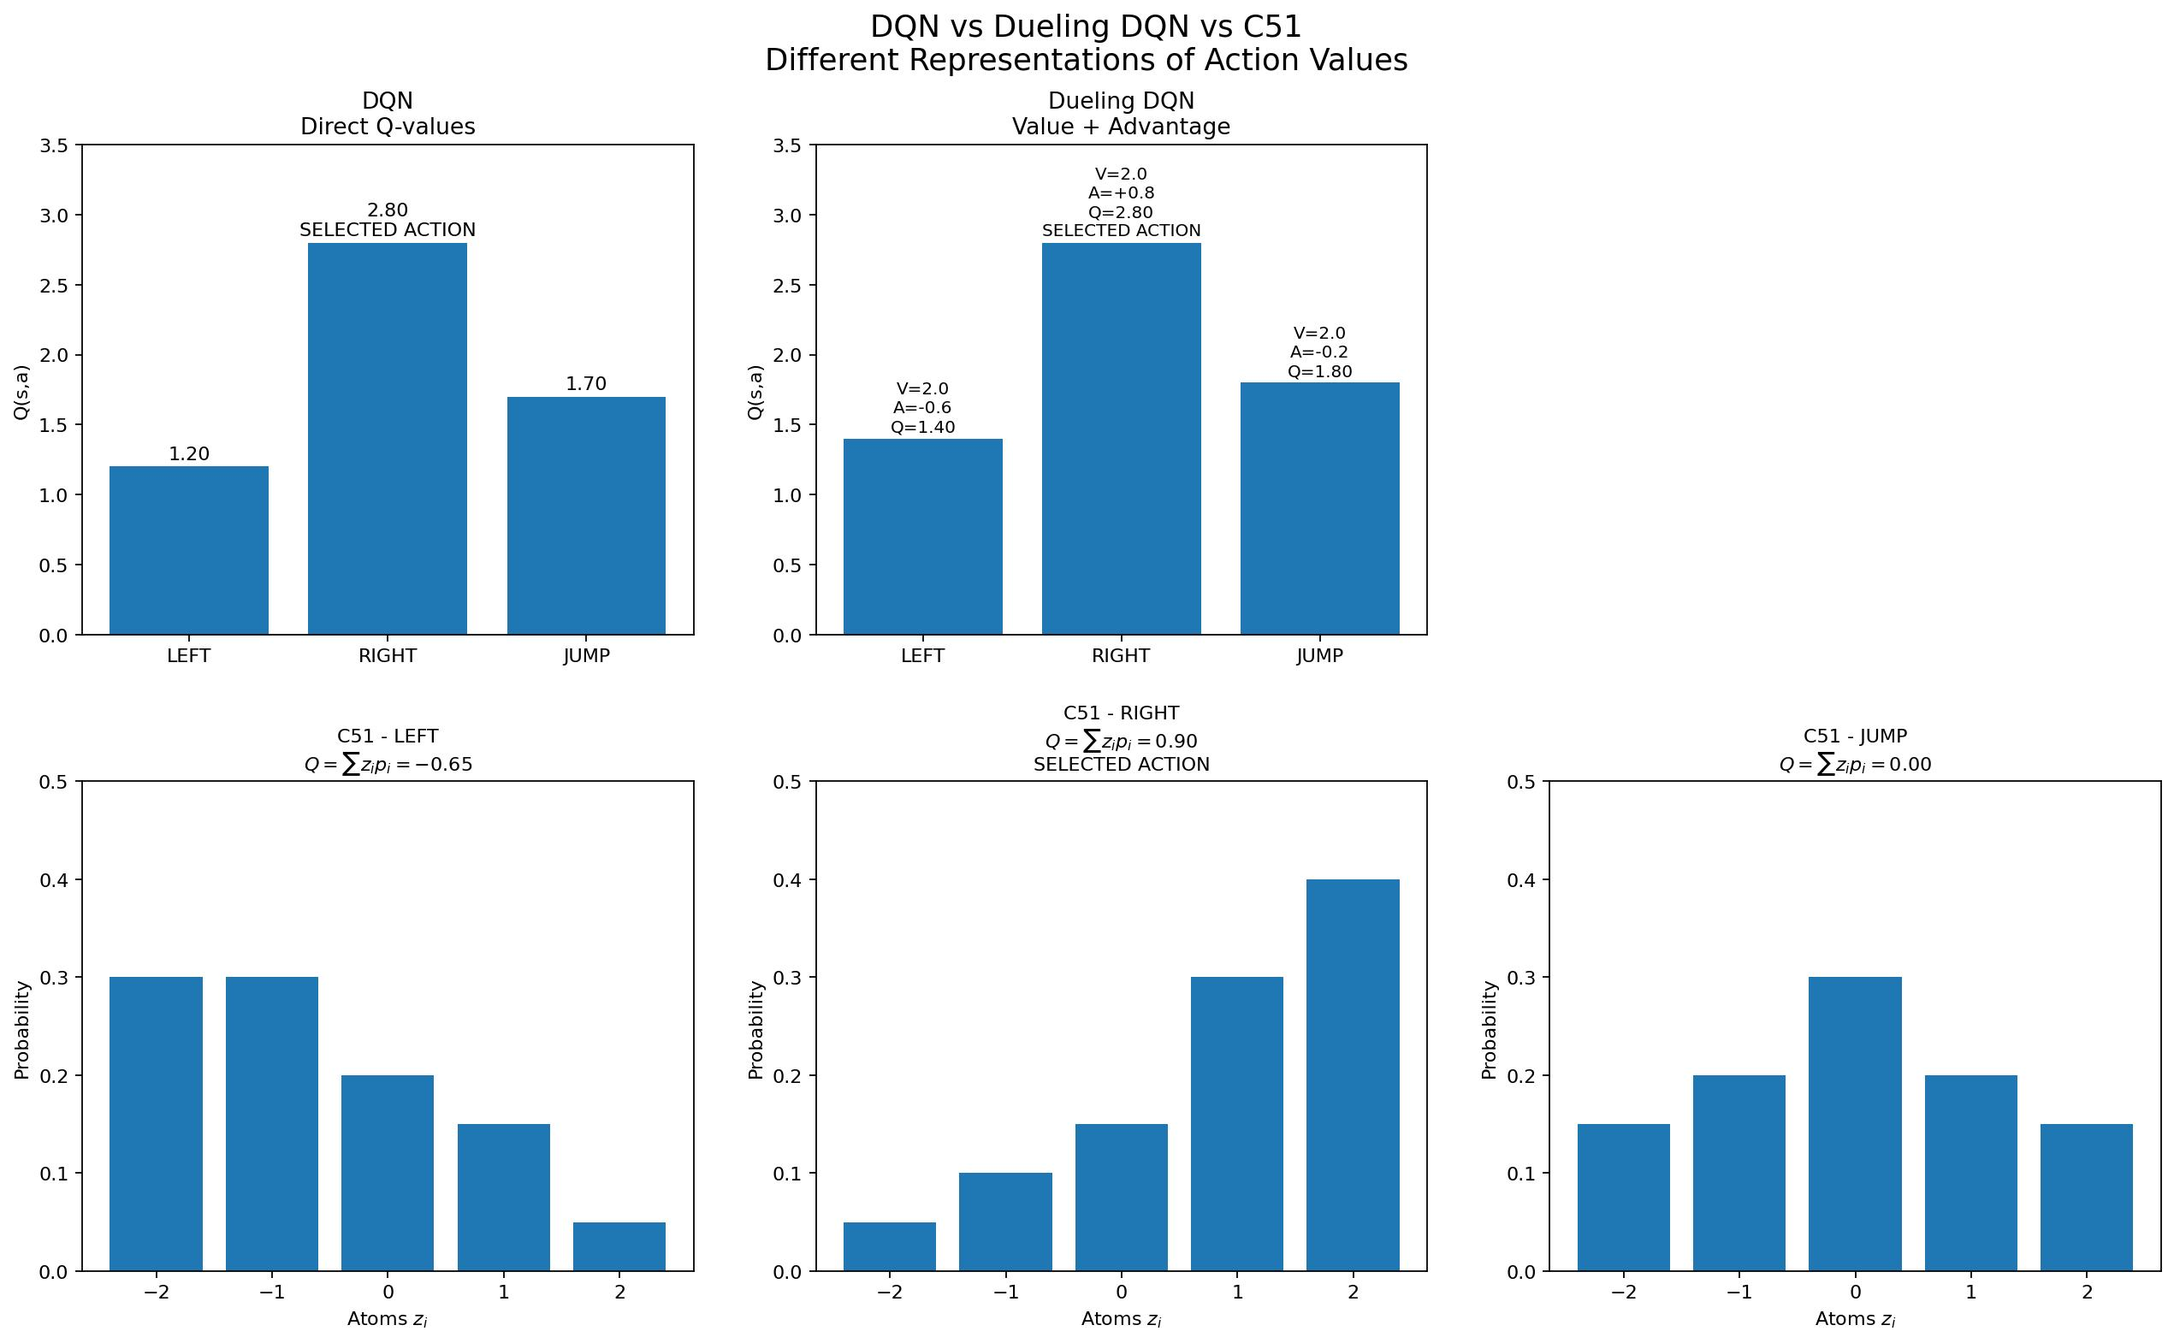
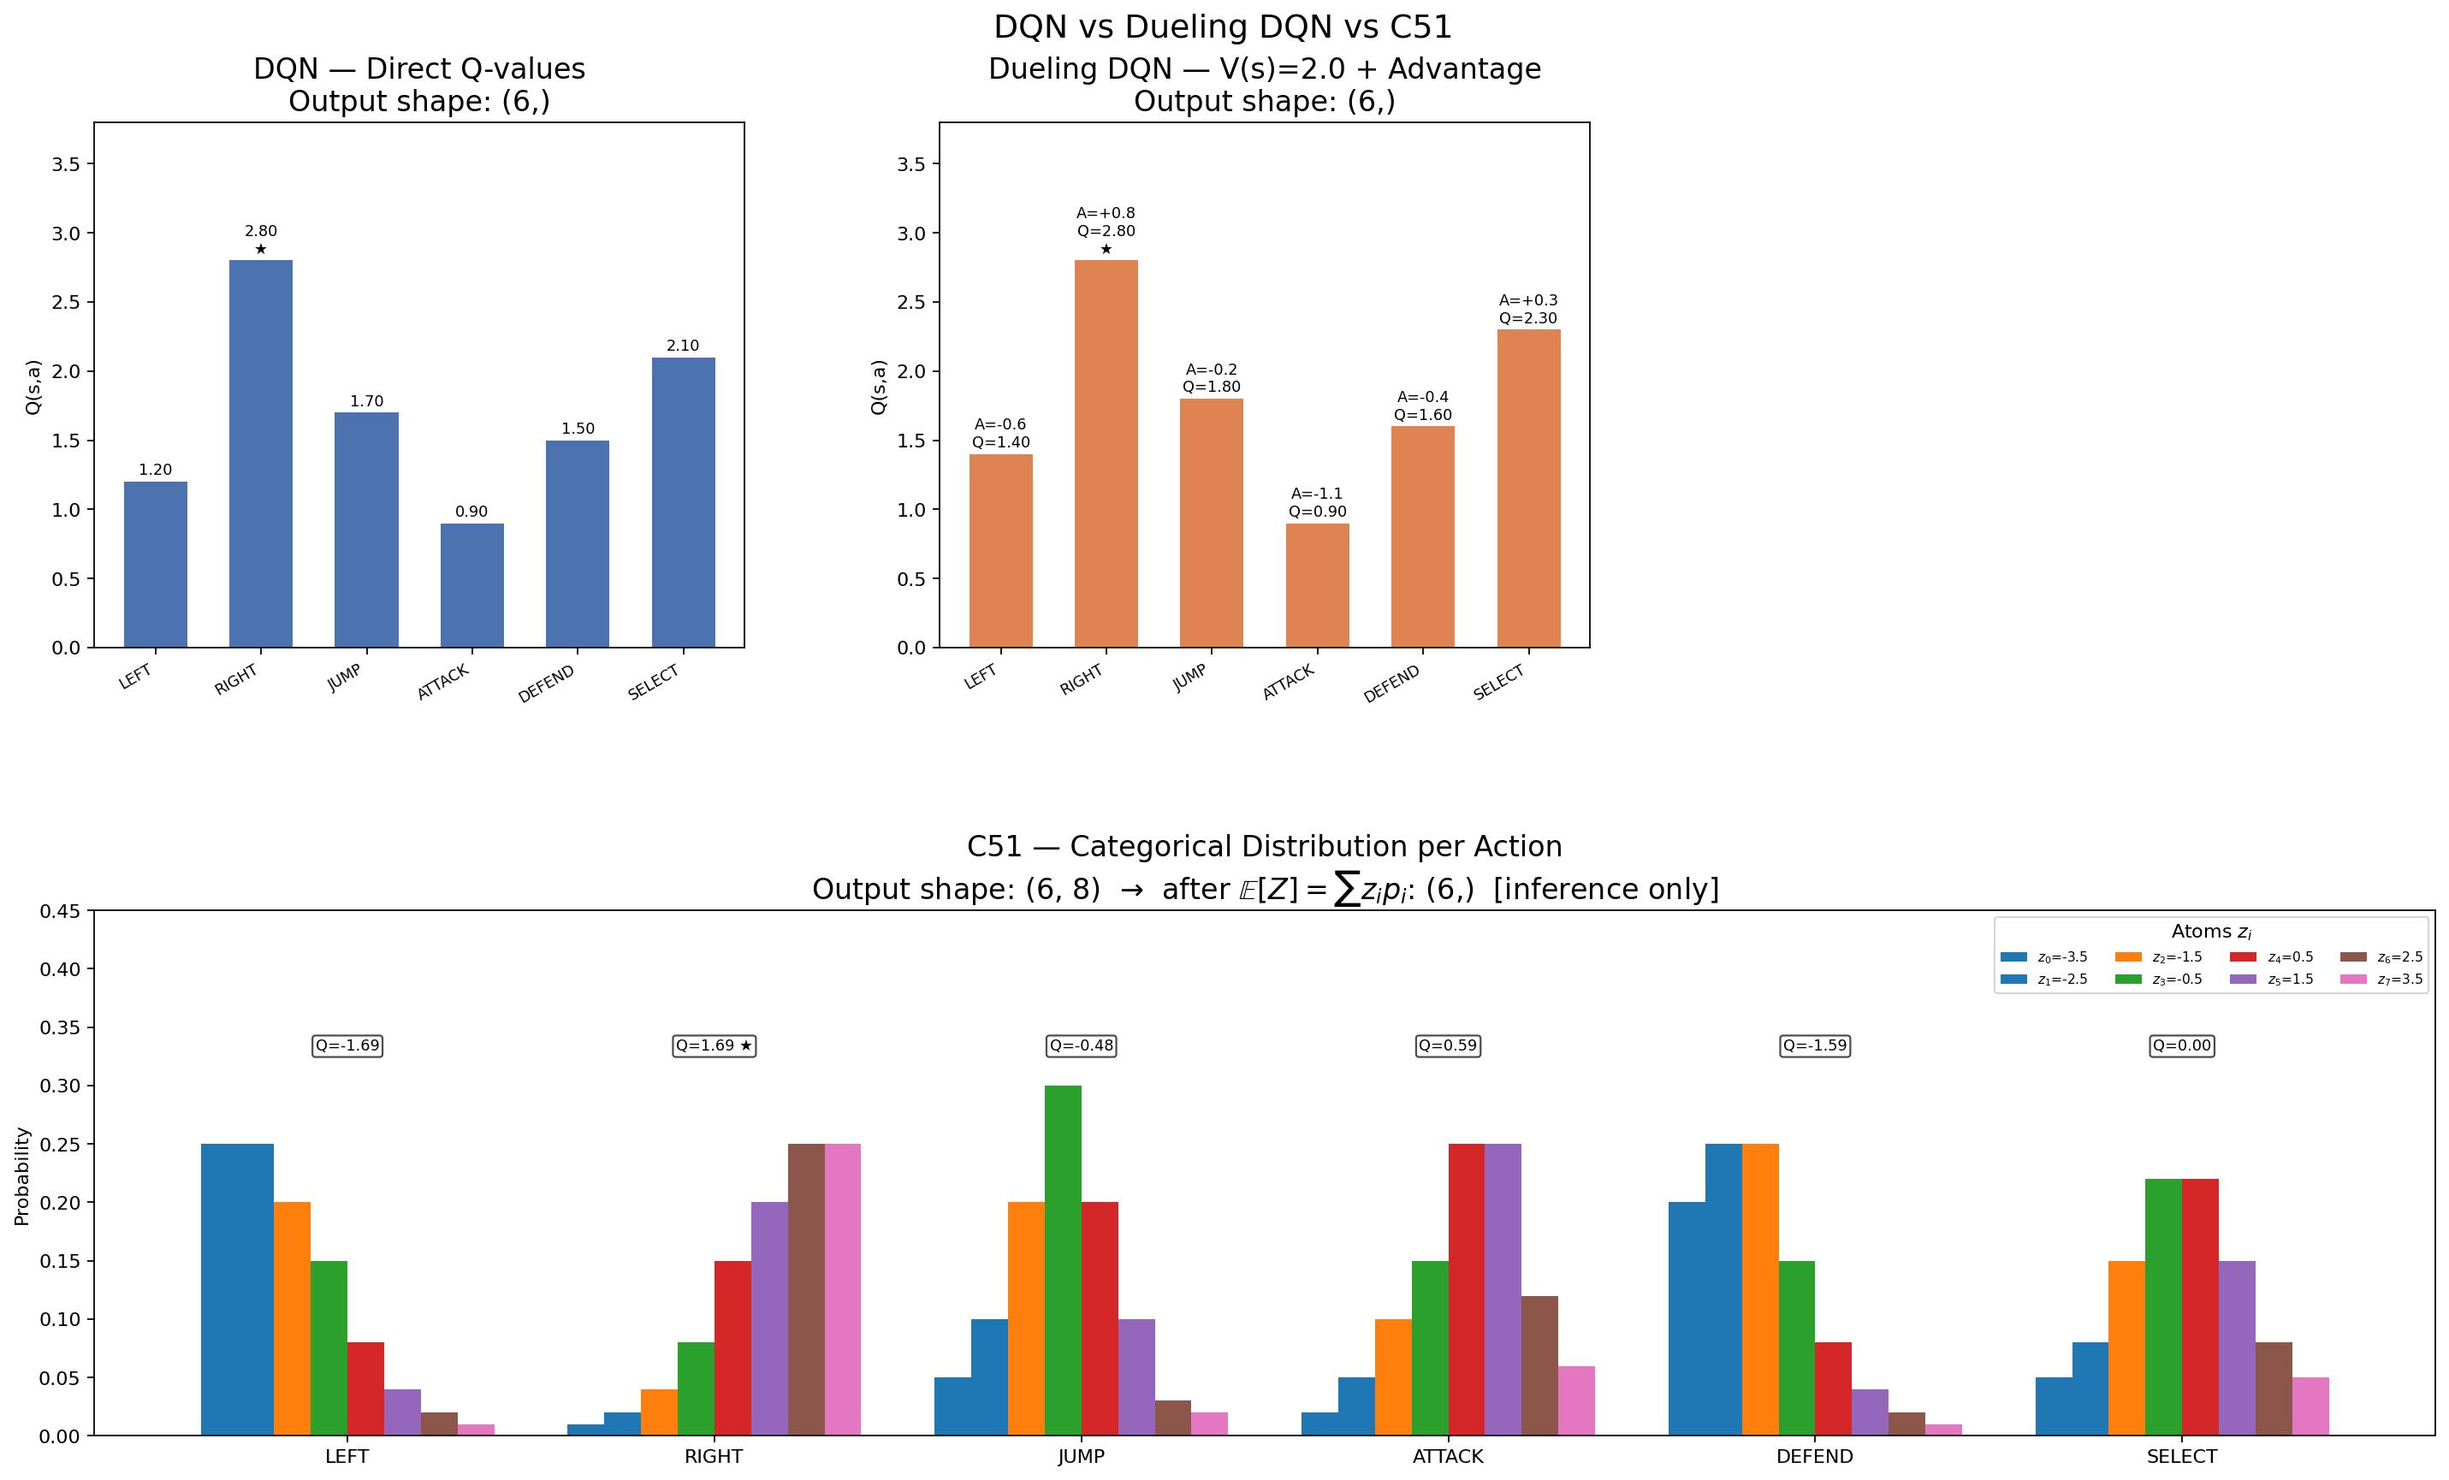
:books: docs: Update

diff --git a/docs/dqn_dueling_dqn_c51_comparing_argmax.py b/docs/dqn_dueling_dqn_c51_comparing_argmax.py
@@ -7,34 +7,33 @@ DQN vs Dueling DQN vs C51
 
 Goal:
 Show how each architecture represents action values.
+Note: C51 uses 8 atoms in this example; standard C51 uses 51.
 
 author: Guilherme Alves Silveira
 generated with AI tools
 """
 
-# Actions
-actions = ["LEFT", "RIGHT", "JUMP"]
+# Actions — 6 to match architecture diagram
+actions = ["LEFT", "RIGHT", "JUMP", "ATTACK", "DEFEND", "SELECT"]
 
 # ---------------------------------------------------------
 # DQN
 # Direct scalar Q-values
+# Output shape: (6,)
 # ---------------------------------------------------------
 
-dqn_q = np.array([1.2, 2.8, 1.7])
+dqn_q = np.array([1.2, 2.8, 1.7, 0.9, 1.5, 2.1])
 
 # ---------------------------------------------------------
 # Dueling DQN
 #
 # Q(s,a) = V(s) + A(s,a)
 #
-# We'll simulate:
 # V(s) = 2.0
-# Advantages = [-0.6, +0.8, -0.2]
 # ---------------------------------------------------------
 
 V = 2.0
-advantages = np.array([-0.6, 0.8, -0.2])
-
+advantages = np.array([-0.6, 0.8, -0.2, -1.1, -0.4, 0.3])
 dueling_q = V + advantages
 
 # ---------------------------------------------------------
@@ -42,128 +41,131 @@ dueling_q = V + advantages
 #
 # Distribution over returns
 # Q(s,a) = Σ z_i * p_i
+# 8 atoms in this example (standard C51 uses 51)
+# Output shape: (6, 8) → after E[Z]: (6,)
 # ---------------------------------------------------------
 
-z = np.array([-2, -1, 0, 1, 2])
+z = np.array([-3.5, -2.5, -1.5, -0.5, 0.5, 1.5, 2.5, 3.5])
 
 c51_distributions = {
-    "LEFT":  np.array([0.30, 0.30, 0.20, 0.15, 0.05]),
-    "RIGHT": np.array([0.05, 0.10, 0.15, 0.30, 0.40]),
-    "JUMP":  np.array([0.15, 0.20, 0.30, 0.20, 0.15]),
+    "LEFT":   np.array([0.25, 0.25, 0.20, 0.15, 0.08, 0.04, 0.02, 0.01]),
+    "RIGHT":  np.array([0.01, 0.02, 0.04, 0.08, 0.15, 0.20, 0.25, 0.25]),
+    "JUMP":   np.array([0.05, 0.10, 0.20, 0.30, 0.20, 0.10, 0.03, 0.02]),
+    "ATTACK": np.array([0.02, 0.05, 0.10, 0.15, 0.25, 0.25, 0.12, 0.06]),
+    "DEFEND": np.array([0.20, 0.25, 0.25, 0.15, 0.08, 0.04, 0.02, 0.01]),
+    "SELECT": np.array([0.05, 0.08, 0.15, 0.22, 0.22, 0.15, 0.08, 0.05]),
 }
 
-c51_q = []
-
+# Normalize
 for a in actions:
-    q = np.sum(z * c51_distributions[a])
-    c51_q.append(q)
+    c51_distributions[a] /= c51_distributions[a].sum()
 
-c51_q = np.array(c51_q)
+c51_q = np.array([np.sum(z * c51_distributions[a]) for a in actions])
 
 # ---------------------------------------------------------
-# Figure
+# Figure layout:
+# Row 0: DQN (col 0) | Dueling DQN (col 1) | shape info (col 2)
+# Row 1: C51 all 6 actions as grouped bar (spans full width)
 # ---------------------------------------------------------
 
-fig = plt.figure(figsize=(16, 10))
+fig = plt.figure(figsize=(18, 11))
+
+x = np.arange(len(actions))
 
 # =========================================================
 # DQN
 # =========================================================
 
 ax1 = plt.subplot2grid((2, 3), (0, 0))
-
-ax1.bar(actions, dqn_q)
-
+bars = ax1.bar(x, dqn_q, color="#4C72B0", width=0.6)
 best_dqn = np.argmax(dqn_q)
 
 for i, q in enumerate(dqn_q):
-
     label = f"{q:.2f}"
-
     if i == best_dqn:
-        label += "\nSELECTED ACTION"
+        label += "\n★"
+    ax1.text(i, q + 0.05, label, ha='center', fontsize=8)
 
-    ax1.text(i, q + 0.05, label,
-             ha='center',
-             fontsize=10)
-
-ax1.set_title("DQN\nDirect Q-values")
+ax1.set_title("DQN — Direct Q-values\nOutput shape: (6,)", fontsize=15)
 ax1.set_ylabel("Q(s,a)")
-ax1.set_ylim(0, 3.5)
+ax1.set_xticks(x)
+ax1.set_xticklabels(actions, rotation=30, ha='right', fontsize=8)
+ax1.set_ylim(0, 3.8)
 
 # =========================================================
 # Dueling DQN
 # =========================================================
 
 ax2 = plt.subplot2grid((2, 3), (0, 1))
-
-ax2.bar(actions, dueling_q)
-
+ax2.bar(x, dueling_q, color="#DD8452", width=0.6)
 best_dueling = np.argmax(dueling_q)
 
 for i, q in enumerate(dueling_q):
-
-    label = (
-        f"V={V:.1f}\n"
-        f"A={advantages[i]:+.1f}\n"
-        f"Q={q:.2f}"
-    )
-
+    label = f"A={advantages[i]:+.1f}\nQ={q:.2f}"
     if i == best_dueling:
-        label += "\nSELECTED ACTION"
+        label += "\n★"
+    ax2.text(i, q + 0.05, label, ha='center', fontsize=8)
 
-    ax2.text(i, q + 0.05,
-             label,
-             ha='center',
-             fontsize=9)
-
-ax2.set_title("Dueling DQN\nValue + Advantage")
+ax2.set_title(f"Dueling DQN — V(s)={V:.1f} + Advantage\nOutput shape: (6,)", fontsize=15)
 ax2.set_ylabel("Q(s,a)")
-ax2.set_ylim(0, 3.5)
+ax2.set_xticks(x)
+ax2.set_xticklabels(actions, rotation=30, ha='right', fontsize=8)
+ax2.set_ylim(0, 3.8)
 
 # =========================================================
-# C51
+# C51 — grouped bar: all 6 actions, 8 atoms each
 # =========================================================
 
-for idx, action in enumerate(actions):
+ax4 = plt.subplot2grid((2, 3), (1, 0), colspan=3)
 
-    ax = plt.subplot2grid((2, 3), (1, idx))
+n_atoms = len(z)
+n_actions = len(actions)
+group_width = 0.8
+bar_width = group_width / n_atoms
 
-    probs = c51_distributions[action]
+colors = plt.cm.tab10(np.linspace(0, 0.6, n_atoms))
 
-    ax.bar(z, probs)
+for atom_idx in range(n_atoms):
+    offsets = x + (atom_idx - n_atoms / 2 + 0.5) * bar_width
+    probs = [c51_distributions[a][atom_idx] for a in actions]
+    ax4.bar(offsets, probs, width=bar_width,
+            color=colors[atom_idx],
+            label=f"$z_{atom_idx}$={z[atom_idx]:.1f}")
 
-    q = c51_q[idx]
+best_c51 = np.argmax(c51_q)
 
-    title = (
-        f"C51 - {action}\n"
-        f"$Q = \\sum z_i p_i = {q:.2f}$"
-    )
+for i, a in enumerate(actions):
+    q = c51_q[i]
+    label = f"Q={q:.2f}"
+    if i == best_c51:
+        label += " ★"
+    ax4.text(i, 0.33, label, ha='center', fontsize=8,
+             bbox=dict(boxstyle="round,pad=0.2",
+                       facecolor="white", alpha=0.7))
 
-    if idx == np.argmax(c51_q):
-        title += "\nSELECTED ACTION"
-
-    ax.set_title(title, fontsize=10)
-
-    ax.set_xlabel("Atoms $z_i$")
-    ax.set_ylabel("Probability")
-    ax.set_ylim(0, 0.5)
+ax4.set_title(
+    "C51 — Categorical Distribution per Action\n"
+    "Output shape: (6, 8)  →  after $\\mathbb{E}[Z] = \\sum z_i p_i$: (6,)  [inference only]",
+    fontsize=15
+)
+ax4.set_ylabel("Probability")
+ax4.set_xticks(x)
+ax4.set_xticklabels(actions, fontsize=10)
+ax4.set_ylim(0, 0.45)
+ax4.legend(title="Atoms $z_i$", loc='upper right',
+           fontsize=7, ncol=4)
 
 # ---------------------------------------------------------
 # Global title
 # ---------------------------------------------------------
 
 plt.suptitle(
-    "DQN vs Dueling DQN vs C51\n"
-    "Different Representations of Action Values",
-    fontsize=16
+    "DQN vs Dueling DQN vs C51",
+    fontsize=17
 )
 
 plt.tight_layout()
-plt.subplots_adjust(
-    wspace=0.2,   # horizontal spacing
-    hspace=0.3    # vertical spacing
-)
+plt.subplots_adjust(wspace=0.3, hspace=0.5)
 
 OUT = "./graphics/dqn_dueling_dqn_c51_comparing_argmax.jpg"
 plt.savefig(OUT, dpi=160, bbox_inches="tight",

diff --git a/src/test/java/br/com/guialves/rflr/playground/PlaygroundNoisyNetsPureJavaTest.java b/src/test/java/br/com/guialves/rflr/playground/PlaygroundNoisyNetsPureJavaTest.java
@@ -2,4 +2,5 @@ package br.com.guialves.rflr.playground;
 
 public class PlaygroundNoisyNetsPureJavaTest {
 
+
 }
